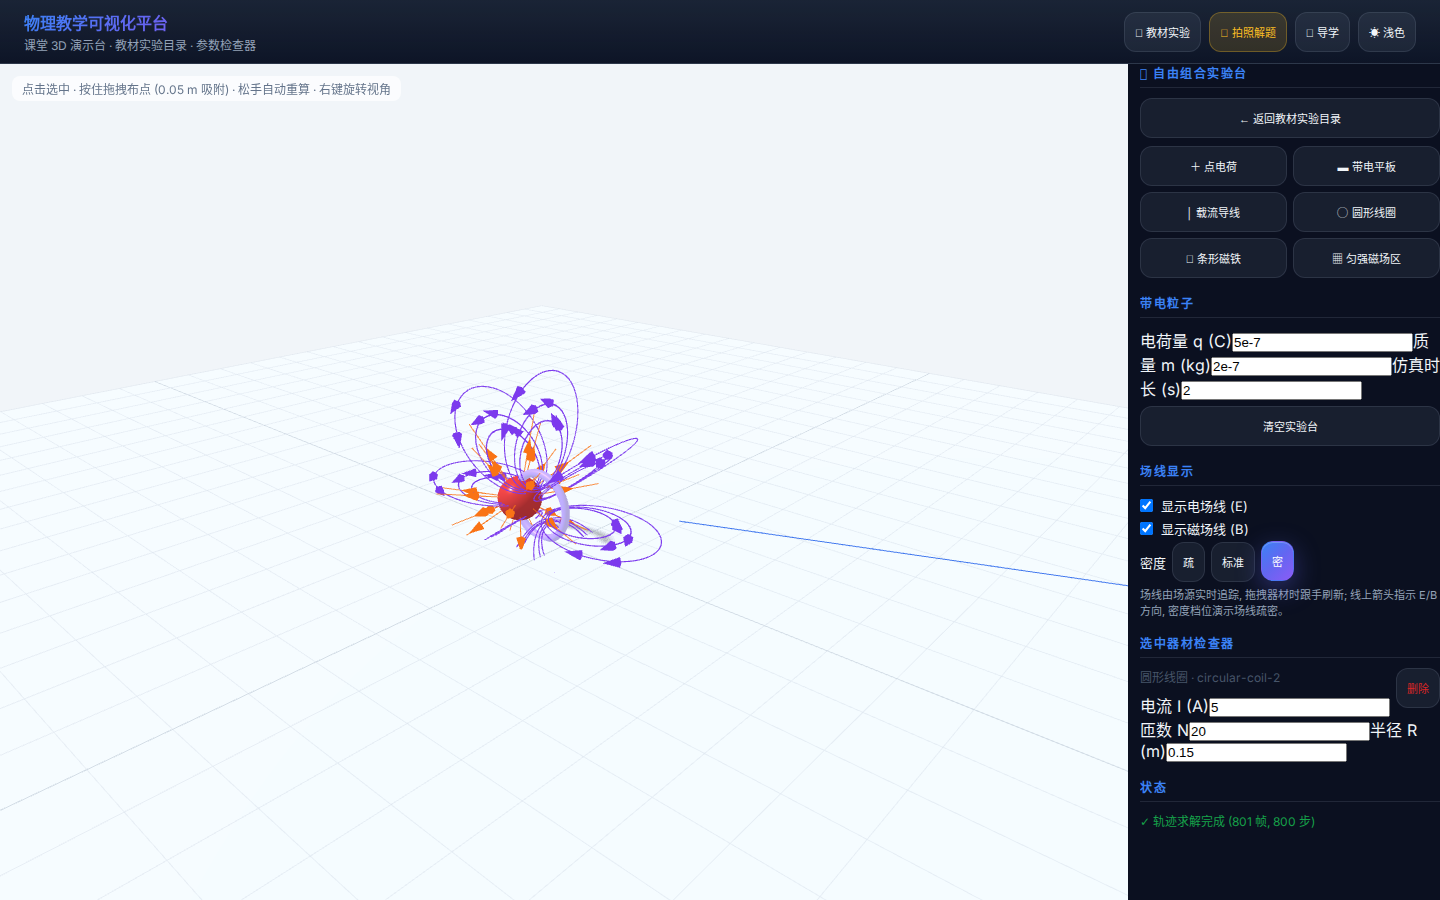
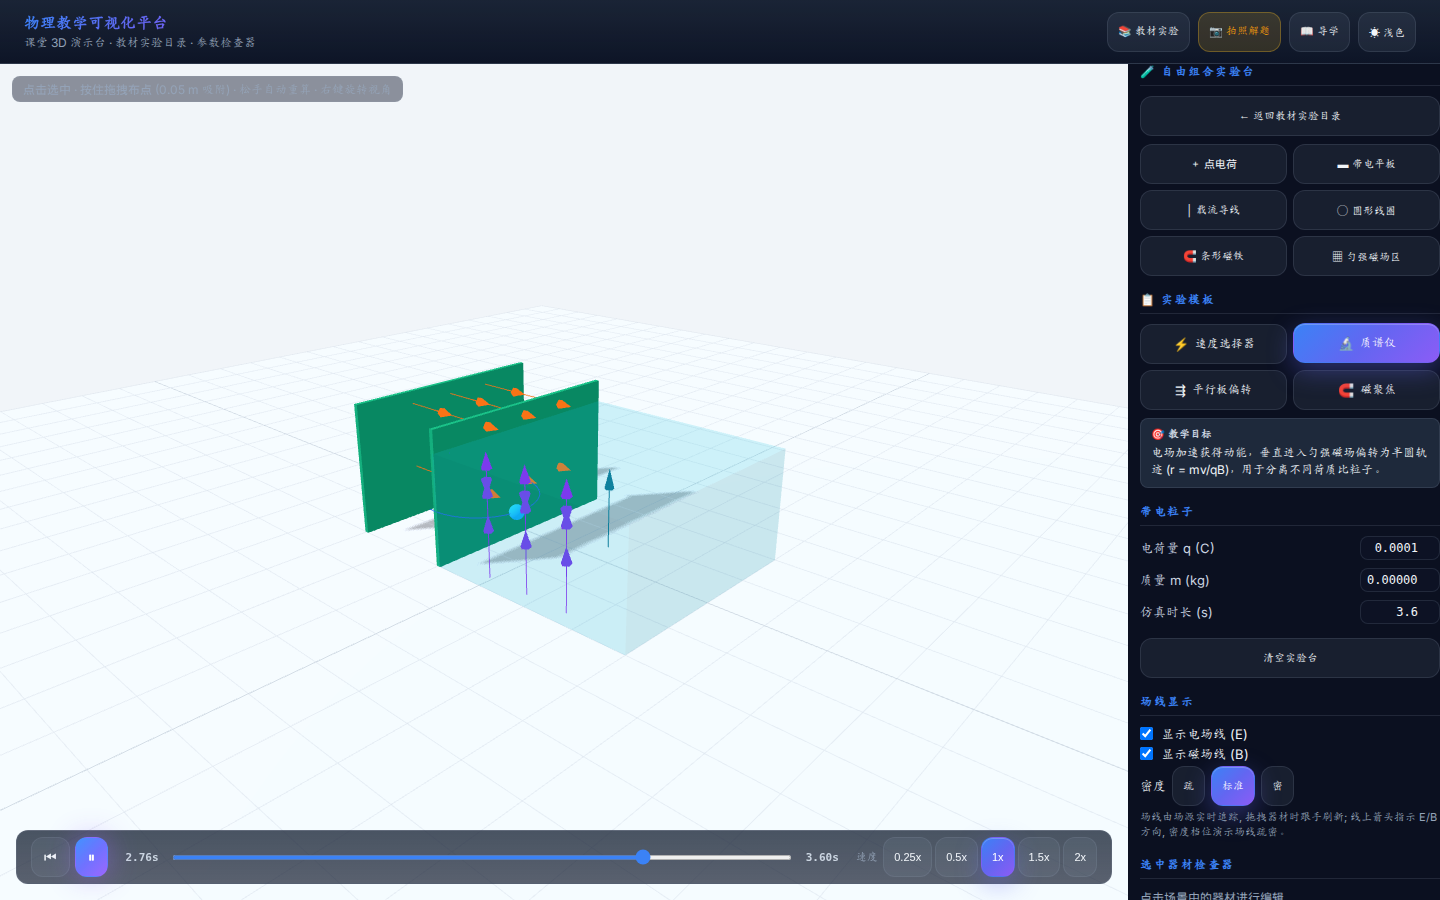
docs(screenshots): update composition lab demo shot and remove obsolete OCR style workaround
Refs #154

diff --git a/README.md b/README.md
@@ -72,7 +72,7 @@ flowchart TB
   - **Boris 数值积分**：专门用于带电粒子在非平行电磁复合场中的运动模拟，严格保持相空间体积与长期能量守恒。
 - **数据图表与物理守恒诊断**：内置 8 类物理曲线图（$x\text{-}t$、$v\text{-}t$、$a\text{-}t$、$E_k\text{-}t$、$E_p\text{-}t$ 等），支持 0.25x–5x 变速播放与单步调试，实时输出机械能/动量守恒误差分析。
 - **分步式实验导学工作流**：将每个教材实验拆解为「现象观察 $\rightarrow$ 参数调节 $\rightarrow$ 规律验证」三步导学流程，贴合一线物理课堂教学需求。
-- **自由组合电磁实验台**：支持点电荷、导线、平行板、条形磁铁、环形线圈及匀强场区域自由拖拽放置，动态计算复杂双色叠加场线与空间粒子轨迹。
+- **自由组合电磁实验台**：内置速度选择器、质谱仪、平行板偏转、磁聚焦四大预设模板一键布置，支持六类器材自由拖拽与三维朝向编辑，动态计算双色叠加场线并配备轨迹变速回放控制。
 - **AI 拍照解题与场景还原**：上传试卷习题图片或粘贴文字题干，智能识别题目类型与物理参量，自动装配并唤起对应的仿真场景。
 
 ---
@@ -87,7 +87,7 @@ flowchart TB
 
 | 3D 空间实验器材 | 自由组合电磁实验台 |
 | :---: | :---: |
-| ![3D 实验器材](docs/screenshots/03-scene-3d-magnetic.png)<br><sub>匀强磁场洛伦兹力回旋轨迹 · 真实比例仪器与空间场区</sub> | ![组合实验台](docs/screenshots/06-composition-bench.png)<br><sub>电荷/磁铁/线圈自由放置 · 实时计算双色叠加场线分布</sub> |
+| ![3D 实验器材](docs/screenshots/03-scene-3d-magnetic.png)<br><sub>匀强磁场洛伦兹力回旋轨迹 · 真实比例仪器与空间场区</sub> | ![组合实验台](docs/screenshots/06-composition-bench.png)<br><sub>经典实验模板一键布置 · 双色叠加场线与轨迹回放控制</sub> |
 
 | 实验分步导学流程 | AI 题目识别与仿真还原 |
 | :---: | :---: |
